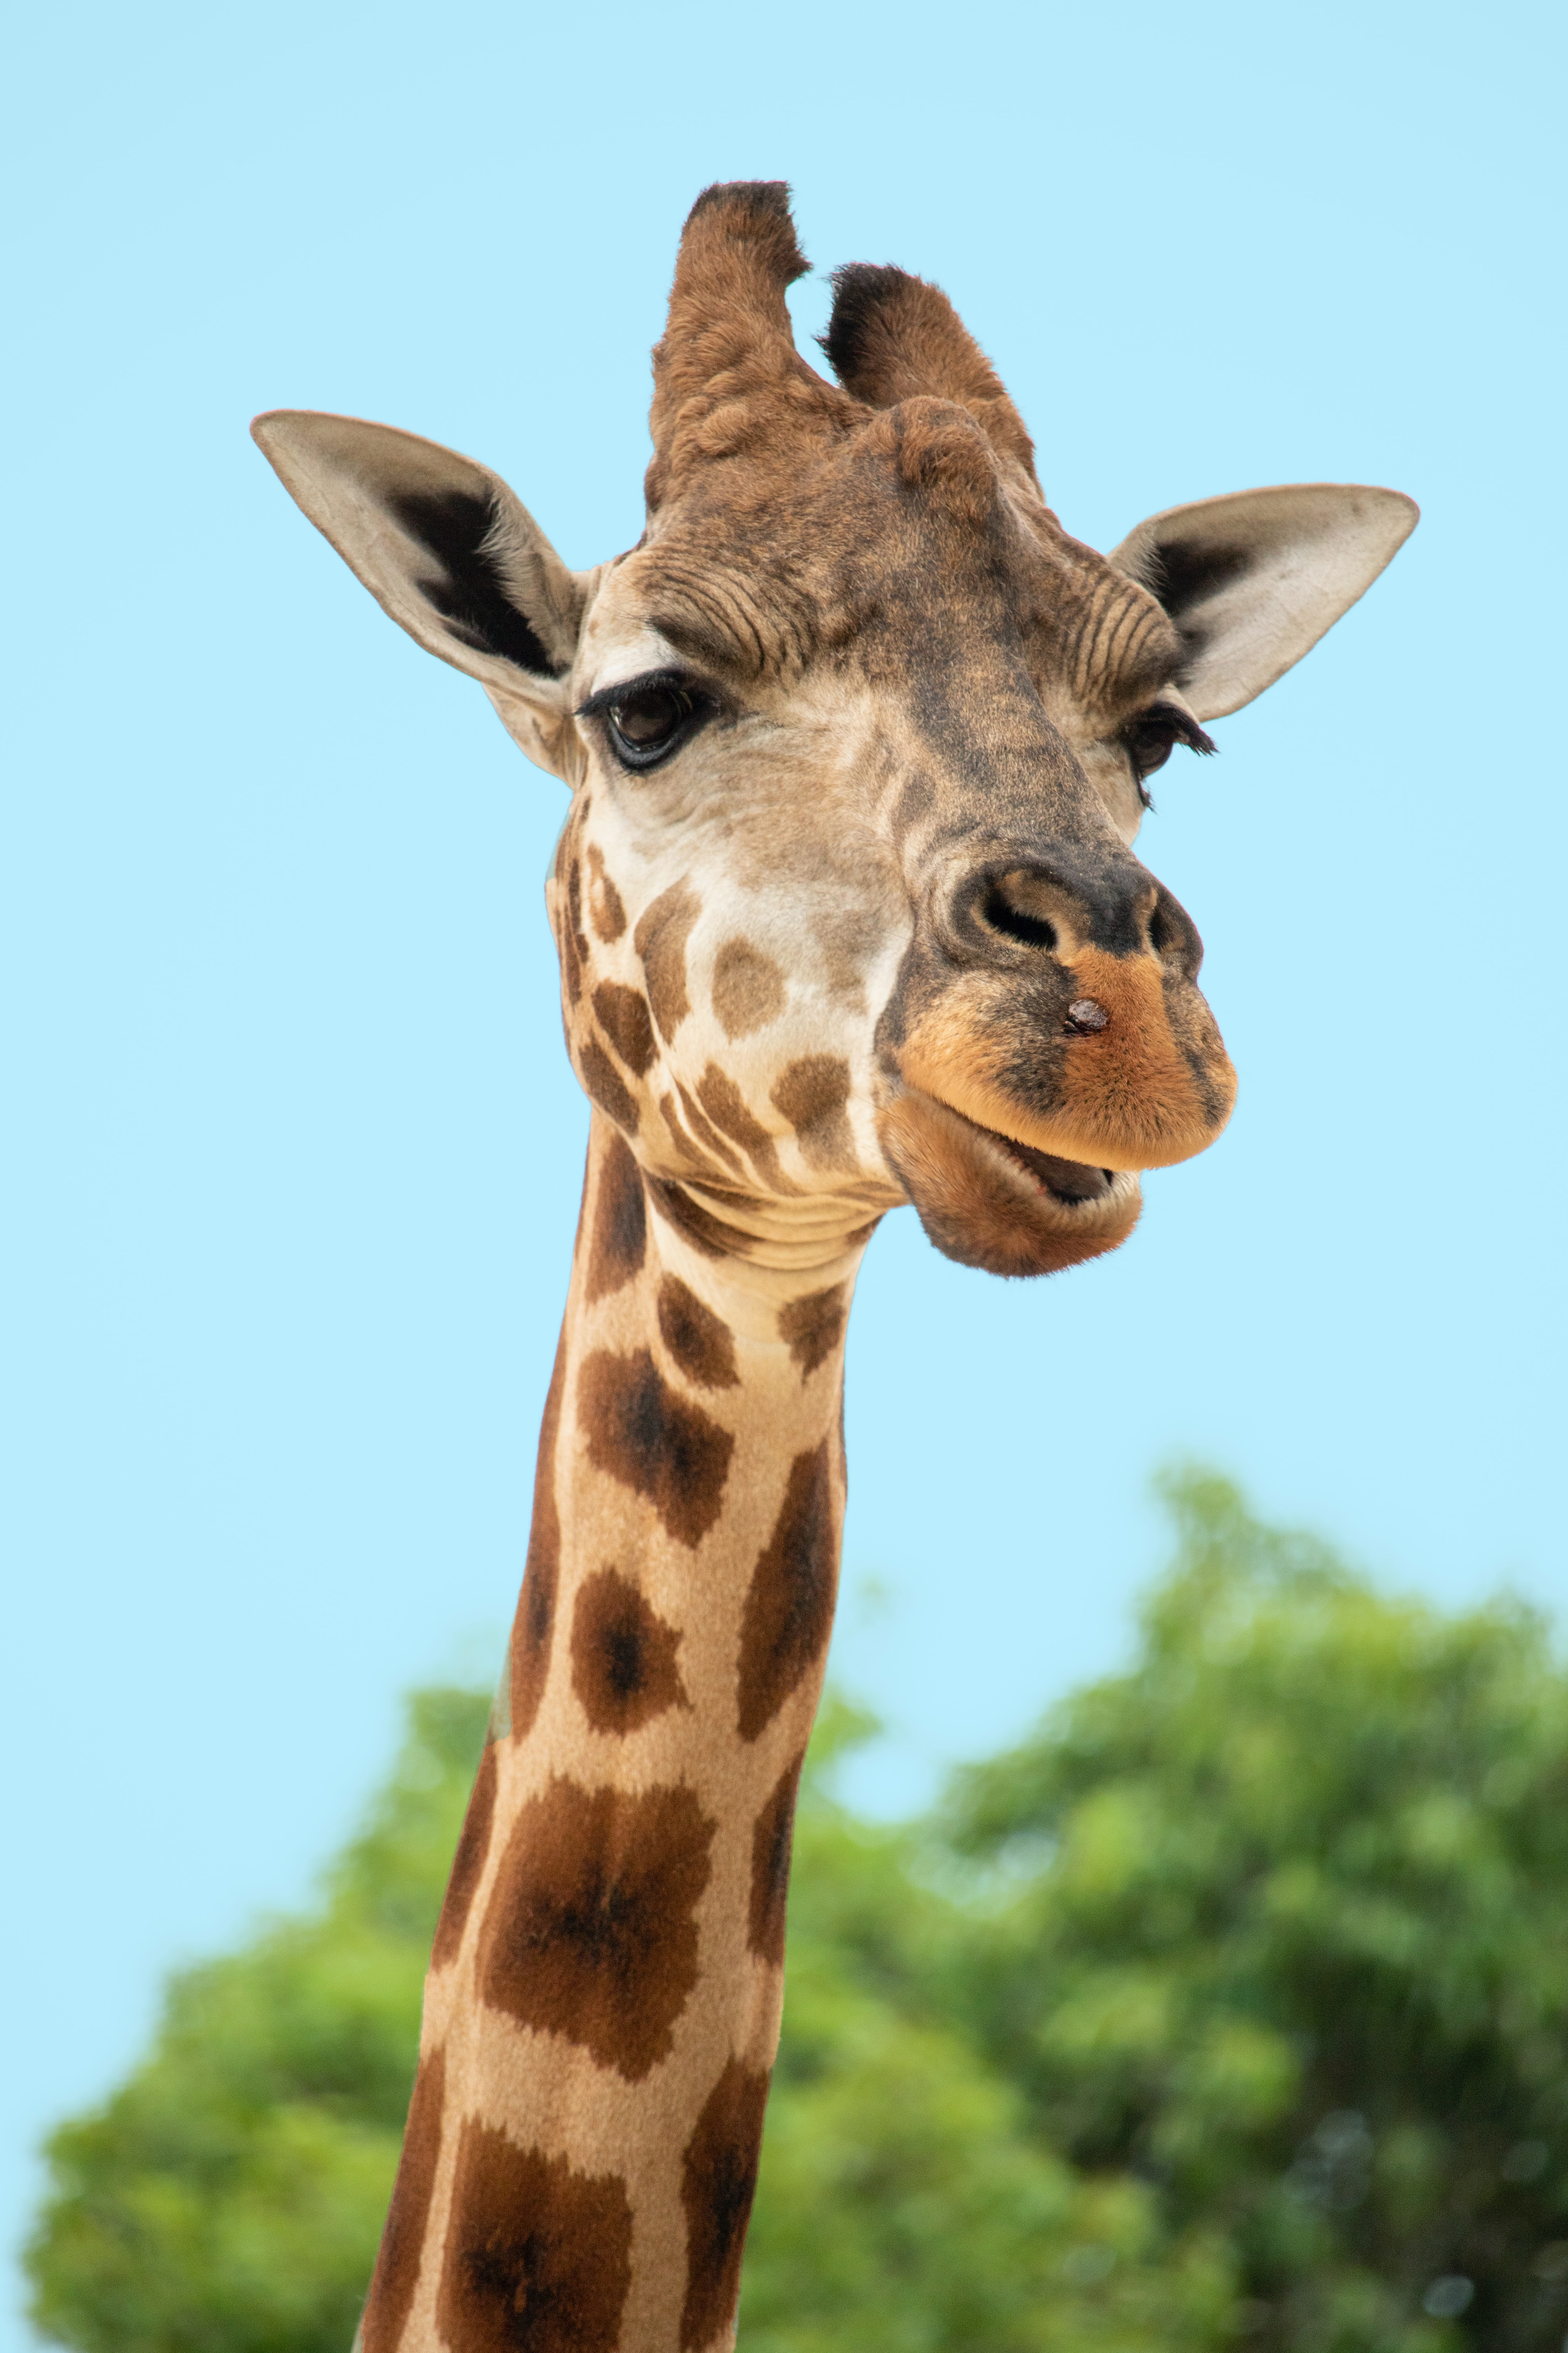
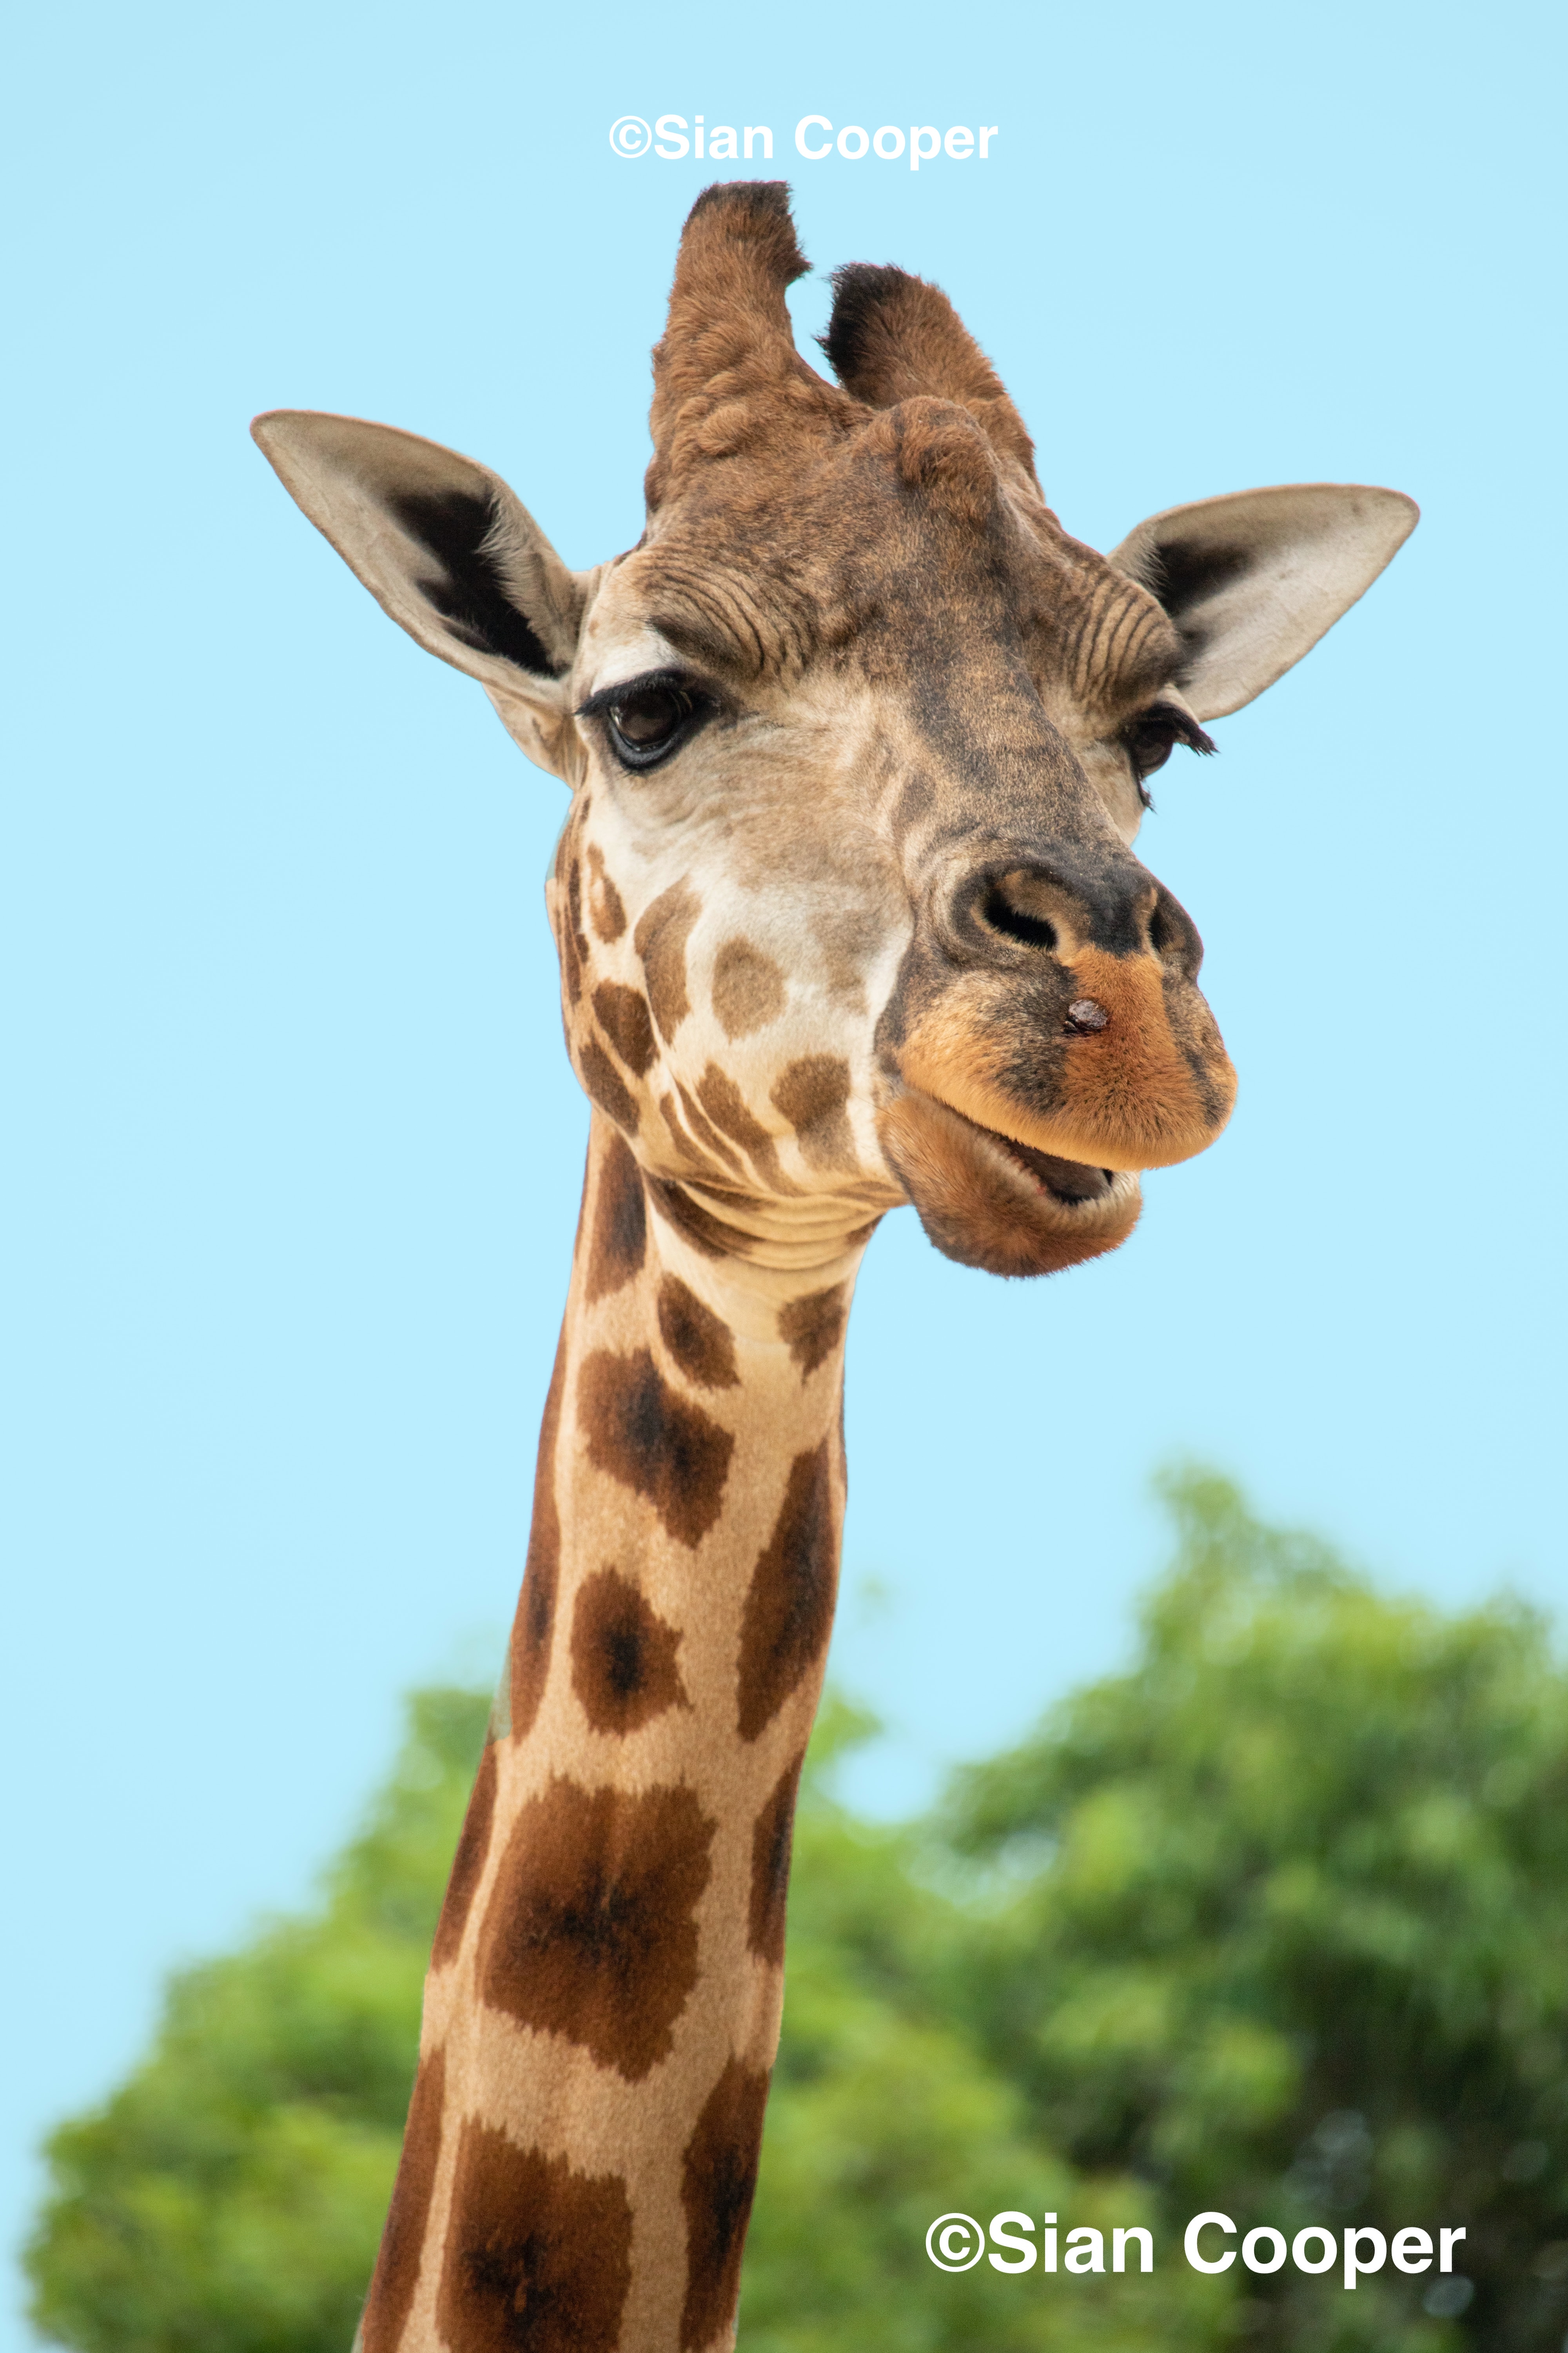
Added photographer names and Fixed colour of about us

Changed region(s): [[0.5938, 0.935, 0.9375, 0.9662], [0.375, 0.0312, 0.625, 0.0935]]

diff --git a/index.html b/index.html
@@ -12,15 +12,16 @@
 <body>
   <header>
     <h1>Welcome To South Canterbury's Premier Wildlife Park!</h1>
+    <p class="photographer name"></p>
   </header>
   <nav>
-    <a href="africanarea.html"><img src="iconcheetah.svg" alt="icon" width="20" height="20" />About African Area</a>
-    <a href="americanarea.html"><img src="iconbison1.svg" alt="icon" width="20" height="20" />About American Area</a>
-    <a href="arcticarea.html"><img src="iconfox.svg" alt="icon" width="20" height="20" />About Arctic Area</a>
-    <a href="afrsavastars.html"><img src="icongiraff.svg" alt="icon" width="20" height="20" />Meet the Stars of Our African Savannah</a>
-    <a href="amewildstars.html"><img src="iconbison2.svg" alt="icon" width="20" height="20" />Meet the Stars of Our American Wilderness</a>
-    <a href="encarctstars.html"><img src="iconpolarbear.svg" alt="icon" width="20" height="20" />Meet the Stars of Our Enchanting Arctic Tundra</a>
-    <a href="aboutus.html"><img src="iconus.svg" alt="icon" width="20" height="20" />About Us</a>
+    <a href="africanarea.html"><img src="iconcheetah.svg" alt="Icon of chestah" width="20" height="20" />About African Area</a>
+    <a href="americanarea.html"><img src="iconbison1.svg" alt="Icon of bison1" width="20" height="20" />About American Area</a>
+    <a href="arcticarea.html"><img src="iconfox.svg" alt="Icon of fox" width="20" height="20" />About Arctic Area</a>
+    <a href="afrsavastars.html"><img src="icongiraff.svg" alt="Icon of giraff" width="20" height="20" />Meet the Stars of Our African Savannah</a>
+    <a href="amewildstars.html"><img src="iconbison2.svg" alt="Icon of bison2" width="20" height="20" />Meet the Stars of Our American Wilderness</a>
+    <a href="encarctstars.html"><img src="iconpolarbear.svg" alt="Icon of polarbear" width="20" height="20" />Meet the Stars of Our Enchanting Arctic Tundra</a>
+    <a href="aboutus.html"><img src="iconus.svg" alt="icon of our team" width="20" height="20" />About Us</a>
   </nav>
   <main>
     <h2>Home</h2>

diff --git a/aboutus.html b/aboutus.html
@@ -6,7 +6,7 @@
   <link rel="icon" href="iconzoo.png" />
   <link rel="preconnect" href="https://fonts.googleapis.com" />
   <link rel="preconnect" href="https://fonts.gstatic.com" crossorigin />
-  <link href="https://fonts.googleapis.com/css2?family=Itim&family=Slackey&family=Titan+One&display=swap" rel="stylesheet" />
+  <link href="https://fonts.googleapis.com/css2?family=Allerta+Stencil&family=Cabin+Sketch&family=Monoton&display=swap" rel="stylesheet" />
 </head>
 
 <body>
@@ -57,13 +57,13 @@
     grid-area: f;
   }
   * {
-    background-color: #7a6563;
+    background-color: #7c90db;
     text-align: center;
   }
   h1 {
     font-family: "Monoton", cursive;
     font-size: 70px;
-    color: #de6e4b;
+    color: #aaefdf;
     padding: 10% 10%;
     animation: img_anime 20s ease infinite;
     background-size: cover;
@@ -77,8 +77,8 @@
     padding: 0.7rem 0.7rem 0.7rem 0.7rem;
     margin: 0 2% 2% 2%;
     display: inline-block;
-    background-color: #7a6563;
-    border: 2px solid #e56399;
+    background-color: #7c90db;
+    border: 2px solid #aaefdf;
     width: 300px;
     height: 50px;
   }
@@ -101,7 +101,7 @@
   .footer {
     font-family: Arial, Helvetica, sans-serif;
     font-size: 20px;
-    background-color: #de6e4b;
+    background-color: #c4a381;
     padding: 2% 2%;
     margin-top: 2%;
   }

diff --git a/encarctstars.html b/encarctstars.html
@@ -37,7 +37,7 @@
       </li>
       <p class="title">Fur Seals:</p>
       <li>
-        <img src="beaver-1-svetozar-cenisev.jpg" width="500" height="600" alt="beavers" />
+        <img src="beaver-1-svetozar-cenisev.jpg" width="800" height="600" alt="beavers" />
         <p class="paragraph3">Say hello to our delightful fur seal family, Splash, Wave, and their playful pups. These endearing marine mammals are known for their dense fur, impressive agility in water, and their ability to thrive in the icy Arctic waters. Watch as Splash, Wave, and their pups demonstrate their incredible swimming and diving abilities, while also showcasing their social interactions and vocalizations. Learn about their unique physiology, their importance in the Arctic food chain, and the conservation efforts in place to ensure the survival and protection of these captivating creatures.</p>
       </li>
     </ul>
